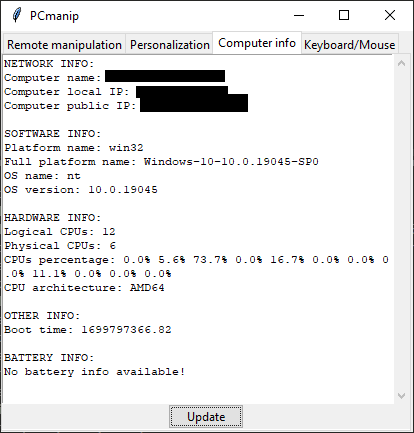
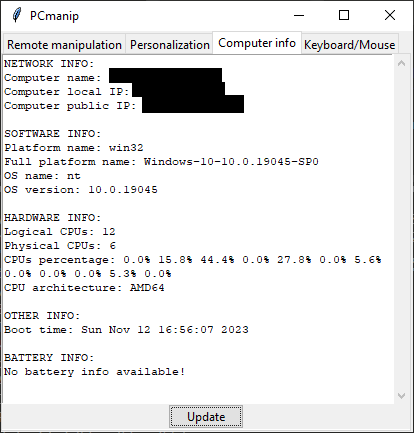
added images and fixed boot time

diff --git a/src/code/main.py b/src/code/main.py
@@ -232,7 +232,9 @@ def update_text_about_computer():
 	add_text_computer_info(f"CPU architecture: {platform.machine()}")
 
 	add_text_computer_info(f"\nOTHER INFO:")
-	add_text_computer_info(f"Boot time: {round(psutil.boot_time(), 2)}")
+	dt = datetime.datetime.fromtimestamp(psutil.boot_time())
+	dt_formatted = dt.strftime("%c")
+	add_text_computer_info(f"Boot time: {dt_formatted}")
 
 	power_info = psutil.sensors_battery()
 	add_text_computer_info(f"\nBATTERY INFO:")
